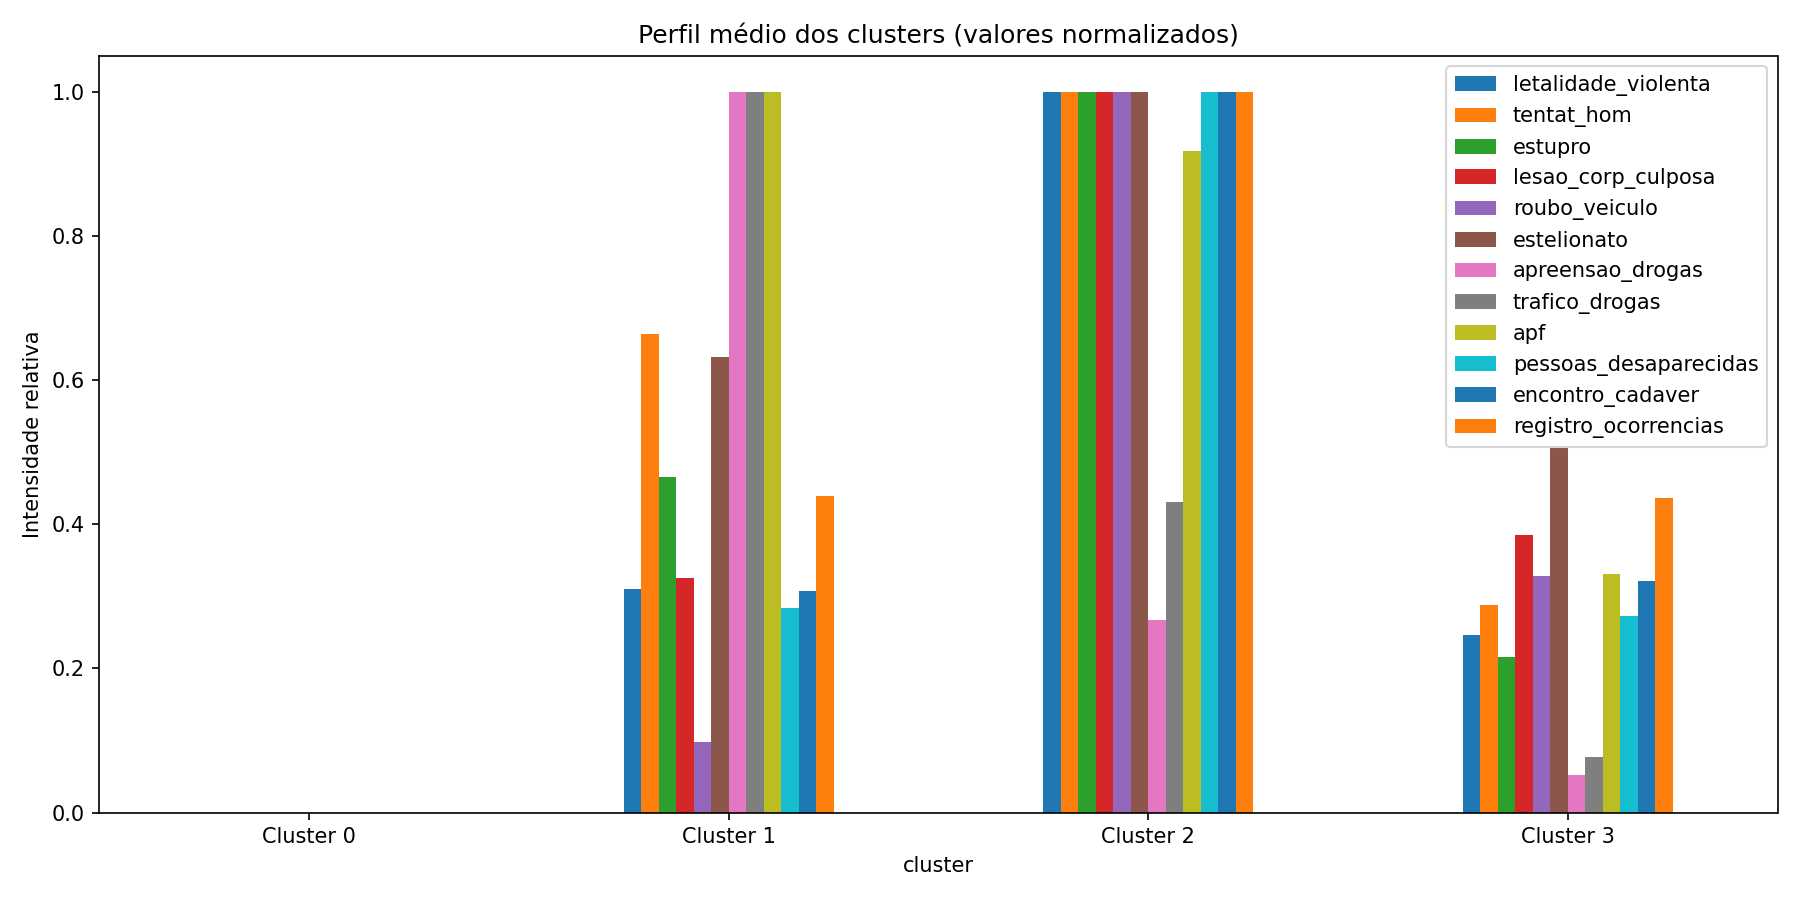
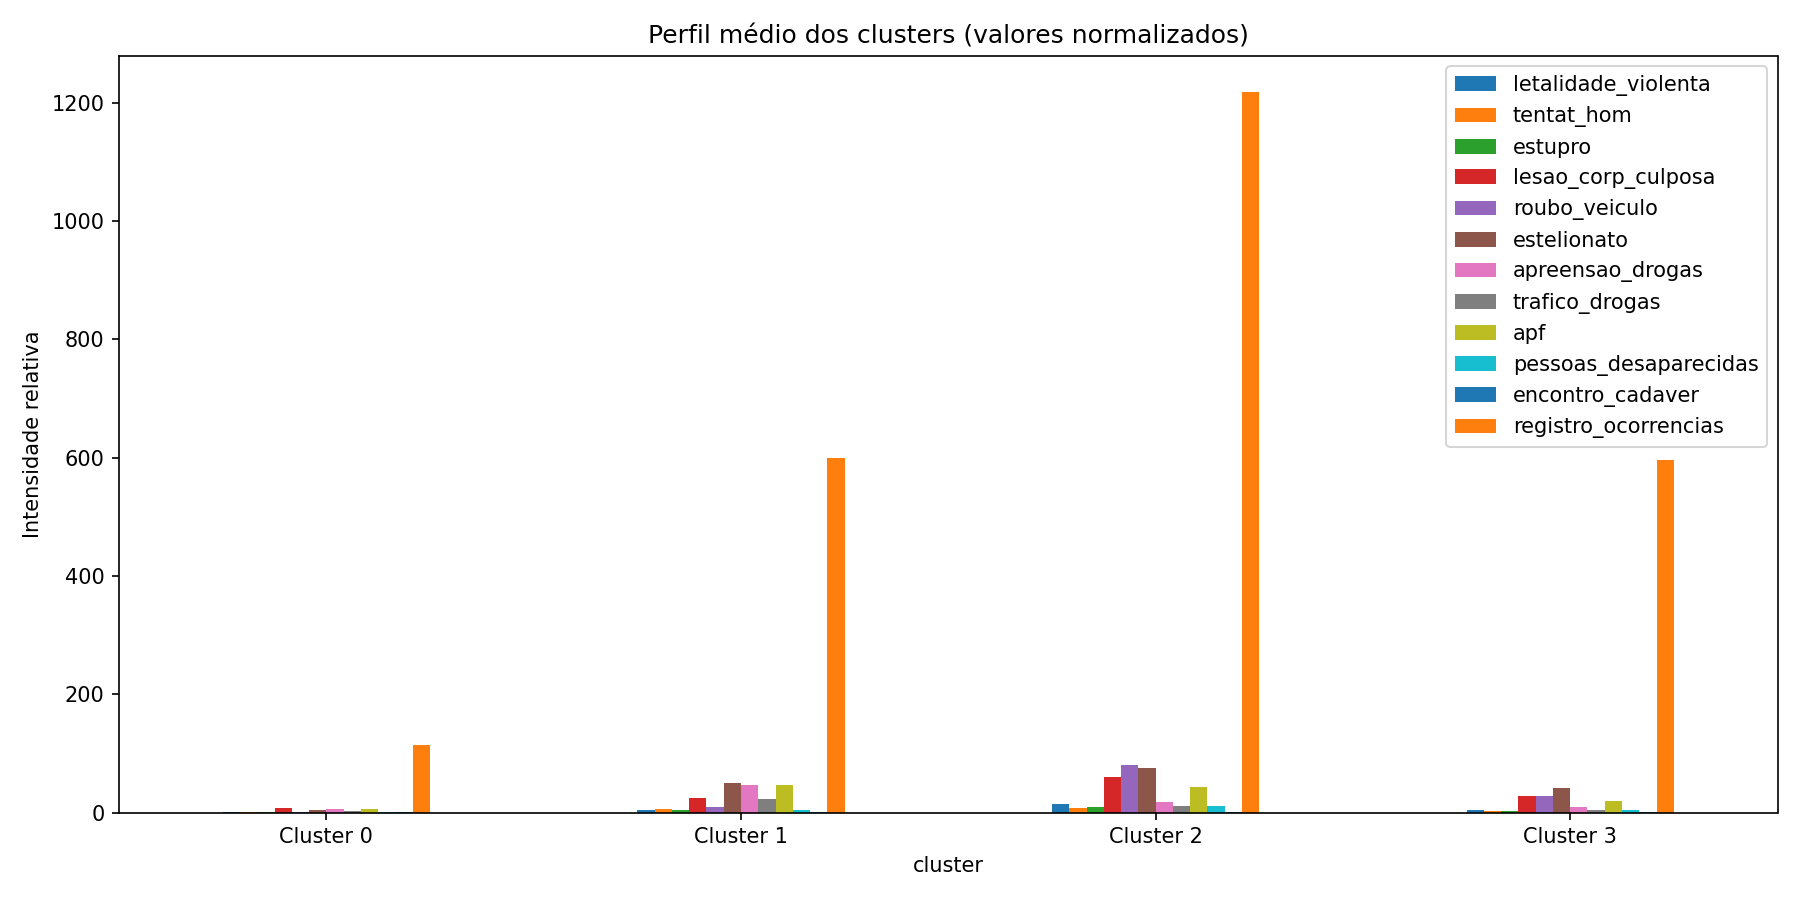
Adicionar gráfico de perfil médio

diff --git a/crime_monitor/frontend/static/js/agrupamentos.js b/crime_monitor/frontend/static/js/agrupamentos.js
@@ -29,7 +29,7 @@ document.addEventListener("DOMContentLoaded", async () => {
             });
     });
 
-    // Gerar gráficos
+    // Função principal: gerar gráficos e imagens
     async function gerarGraficos() {
         const k = document.getElementById("num-clusters").value;
         const inicio = document.getElementById("data-inicio").value;
@@ -51,7 +51,7 @@ document.addEventListener("DOMContentLoaded", async () => {
                 return;
             }
 
-            // PCA Scatter
+            // ======== PCA SCATTER ========
             const canvasScatter = document.getElementById("pca-scatter");
             const ctxScatter = canvasScatter.getContext("2d");
             const clustersUnicos = [...new Set(data.pca_data.map(d => d.cluster))];
@@ -82,7 +82,7 @@ document.addEventListener("DOMContentLoaded", async () => {
                 }
             });
 
-            // Gráfico de importância (bar)
+            // ======== GRÁFICO DE IMPORTÂNCIA ========
             if (data.importancias) {
                 const div = document.getElementById("elbow-plot");
                 div.innerHTML = '<canvas id="importancia-chart"></canvas>';
@@ -106,7 +106,7 @@ document.addEventListener("DOMContentLoaded", async () => {
                     },
                     options: {
                         responsive: true,
-                        maintainAspectRatio: false, // respeita o tamanho do container
+                        maintainAspectRatio: false,
                         scales: {
                             y: { beginAtZero: true, title: { display: true, text: "Importância" } },
                             x: { title: { display: true, text: "Variável" } }
@@ -115,15 +115,28 @@ document.addEventListener("DOMContentLoaded", async () => {
                     }
                 });
             }
-            if (document.getElementById("cluster-profile") && data.perfil_medio_img)
-                document.getElementById("cluster-profile").src = `${data.perfil_medio_img}?v=${new Date().getTime()}`;
-            
+
+            // ======== PERFIS MÉDIOS ========
+            const perfilCom = document.getElementById("perfil_com_registro");
+            const perfilSem = document.getElementById("perfil_sem_registro");
+
+            if (data.perfil_medio_img_com_registro_ocorrencias && perfilCom) {
+                perfilCom.src = `${data.perfil_medio_img_com_registro_ocorrencias}?v=${Date.now()}`;
+                perfilCom.style.display = "block";
+            }
+
+            if (data.perfil_medio_img_sem_registro_ocorrencias && perfilSem) {
+                perfilSem.src = `${data.perfil_medio_img_sem_registro_ocorrencias}?v=${Date.now()}`;
+                perfilSem.style.display = "block";
+            }
+
         } catch (err) {
             console.error("Erro ao carregar dados de agrupamento:", err);
             alert("Erro ao carregar dados. Veja o console para detalhes.");
         }
     }
-    // Aplicar filtros
+
+    // ======== FILTROS ========
     async function aplicarFiltros() {
         const municipioValido = municipios.find(
             m => m.toLowerCase() === inputMunicipio.value.toLowerCase()
@@ -138,7 +151,7 @@ document.addEventListener("DOMContentLoaded", async () => {
 
     document.getElementById("btn-aplicar").addEventListener("click", aplicarFiltros);
 
-    // Exportar PDF
+    // ======== EXPORTAR PDF ========
     document.getElementById("btn-export-pdf").addEventListener("click", async () => {
         const { jsPDF } = window.jspdf;
         const pdf = new jsPDF("landscape", "px", "a4");
@@ -146,7 +159,7 @@ document.addEventListener("DOMContentLoaded", async () => {
         const pageWidth = pdf.internal.pageSize.getWidth() - margin * 2;
         let yOffset = margin;
 
-        const elementos = document.querySelectorAll("canvas, #map-img");
+        const elementos = document.querySelectorAll("canvas, #map-img, #perfil-com-registro, #perfil-sem-registro");
 
         for (let el of elementos) {
             try {

diff --git a/crime_monitor/frontend/pages/agrupamentos.html b/crime_monitor/frontend/pages/agrupamentos.html
@@ -87,10 +87,17 @@
                 </div>
 
                 <div class="chart-card full-width">
-                    <h3>Perfil médio dos clusters</h3>
+                    <h3>Perfil médio dos clusters com registro_ocorrencias</h3>
                     <div class="chart-type">Barras</div>
                     <div class="chart-placeholder">
-                       <img id="cluster-profile" width="400" alt="Perfil médio dos clusters">
+                       <img id="perfil_com_registro" width="400" alt="Perfil médio dos clusters com registro_ocorrencias">
+                    </div>
+                </div>
+                <div class="chart-card full-width">
+                    <h3>Perfil médio dos clusters sem registro_ocorrencias</h3>
+                    <div class="chart-type">Barras</div>
+                    <div class="chart-placeholder">
+                       <img id="perfil_sem_registro" width="400" alt="Perfil médio dos clusters sem registro_ocorrências">
                     </div>
                 </div>
             </section>

diff --git a/crime_monitor/backend/app.py b/crime_monitor/backend/app.py
@@ -669,7 +669,7 @@ def agrupamentos_data():
         'aaapai', 'furto_veiculos', 'roubo_transeunte', 'cmp', 'risp', 'roubo_celular', 
         'outros_furtos', 'roubo_rua', 'apreensao_drogas_sem_autor', 'roubo_em_coletivo', 
         'outros_roubos', 'roubo_carga'
-    ])
+    ], errors="ignore")
 
     if dados_cluster.empty:
         return jsonify({"error": "Sem dados numéricos para agrupar."}), 400
@@ -704,18 +704,28 @@ def agrupamentos_data():
             df_cluster_profile = df_cluster_profile.drop(columns=[col_geo])
 
     # Normaliza para visualização
-    df_norm = (df_cluster_profile - df_cluster_profile.min()) / \
-              (df_cluster_profile.max() - df_cluster_profile.min())
 
-    perfil_img_path = os.path.join(MAP_FOLDER, f"perfil_medio_{k}.png")
+    # --- Imagem 1: sem 'registro_ocorrencias' ---
+    perfil_img_sem = os.path.join(MAP_FOLDER, f"perfil_medio_sem_registro_ocorrencias_{k}.png")
     fig1, ax1 = plt.subplots(figsize=(12, 6))
-    df_norm.plot(kind="bar", ax=ax1)
-    ax1.set_title("Perfil médio dos clusters (valores normalizados)")
-    ax1.set_ylabel("Intensidade relativa")
-    ax1.set_xticklabels([f"Cluster {i}" for i in df_norm.index], rotation=0)
+    df_cluster_profile.drop(columns=['registro_ocorrencias'], errors='ignore').plot(kind="bar", ax=ax1)
+    ax1.set_title("Perfil médio dos clusters (sem registro_ocorrencias)")
+    ax1.set_ylabel("Intensidade relativa (normalizada)")
+    ax1.set_xticklabels([f"Cluster {i}" for i in df_cluster_profile.drop(columns=['registro_ocorrencias'], errors='ignore').index], rotation=0)
     plt.tight_layout()
-    fig1.savefig(perfil_img_path, dpi=150)
+    fig1.savefig(perfil_img_sem, dpi=150)
     plt.close(fig1)
+
+    # --- Imagem 2: com 'registro_ocorrencias' ---
+    perfil_img_com = os.path.join(MAP_FOLDER, f"perfil_medio_com_registro_ocorrencias_{k}.png")
+    fig2, ax2 = plt.subplots(figsize=(12, 6))
+    df_cluster_profile.plot(kind="bar", ax=ax2)
+    ax2.set_title("Perfil médio dos clusters (com registro_ocorrencias)")
+    ax2.set_ylabel("Intensidade relativa (normalizada)")
+    ax2.set_xticklabels([f"Cluster {i}" for i in df_cluster_profile.index], rotation=0)
+    plt.tight_layout()
+    fig2.savefig(perfil_img_com, dpi=150)
+    plt.close(fig2)
 
     # Importância das variáveis
     importances = {}
@@ -730,7 +740,8 @@ def agrupamentos_data():
         "media_clusters": media_clusters,
         "pca_data": pca_data,
         "explained_variance": [round(v, 3) for v in pca.explained_variance_ratio_],
-        "perfil_medio_img": f"/static/img/perfil_medio_{k}.png",
+        "perfil_medio_img_sem_registro_ocorrencias": f"/static/img/perfil_medio_sem_registro_ocorrencias_{k}.png",
+        "perfil_medio_img_com_registro_ocorrencias": f"/static/img/perfil_medio_com_registro_ocorrencias_{k}.png",
         "importancias": importances_series.to_dict()
     })
 
@@ -738,4 +749,4 @@ def agrupamentos_data():
 # Main
 # ===========================
 if __name__ == "__main__":
-    app.run(host="127.0.0.1", port=5000, debug=True)
+    app.run(host="192.168.1.21", port=5000, debug=True)
